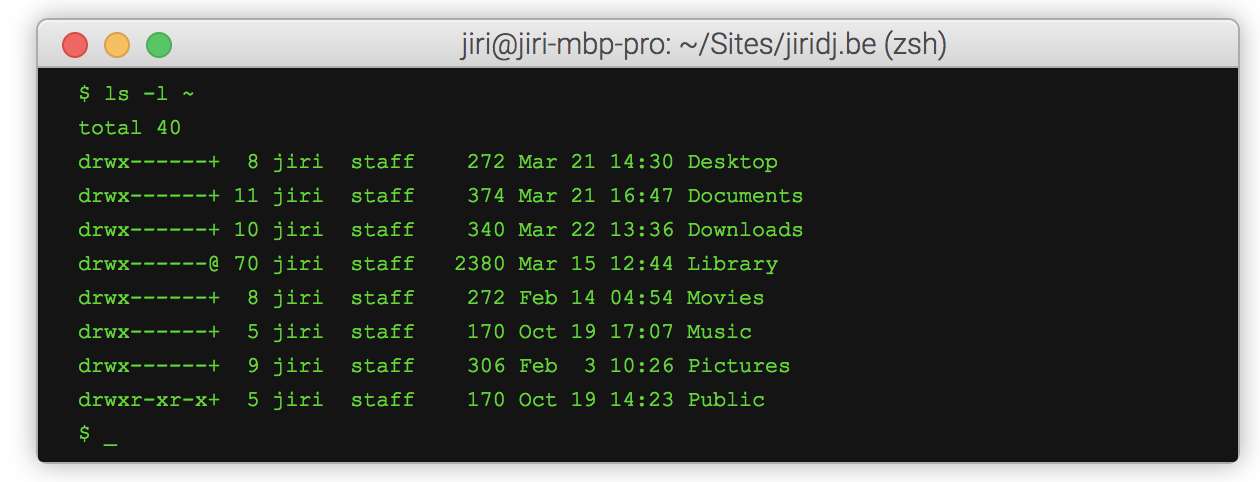
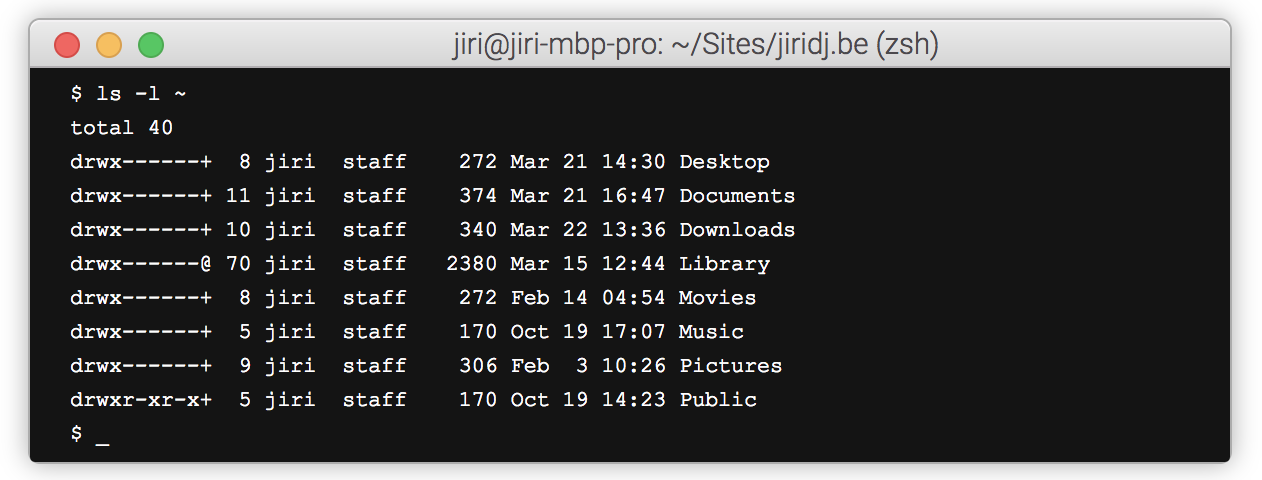
fixed terminal color

diff --git a/static/css/styles.css b/static/css/styles.css
@@ -693,7 +693,7 @@ main {
     padding: 5px;
     list-style: none;
     background: #141414;
-    color: #45D40C;
+    color: #fff;
     font-family: "Courier New", "Courier", monospace;
     font-size: 0.6rem;
     line-height: 1.6em;
